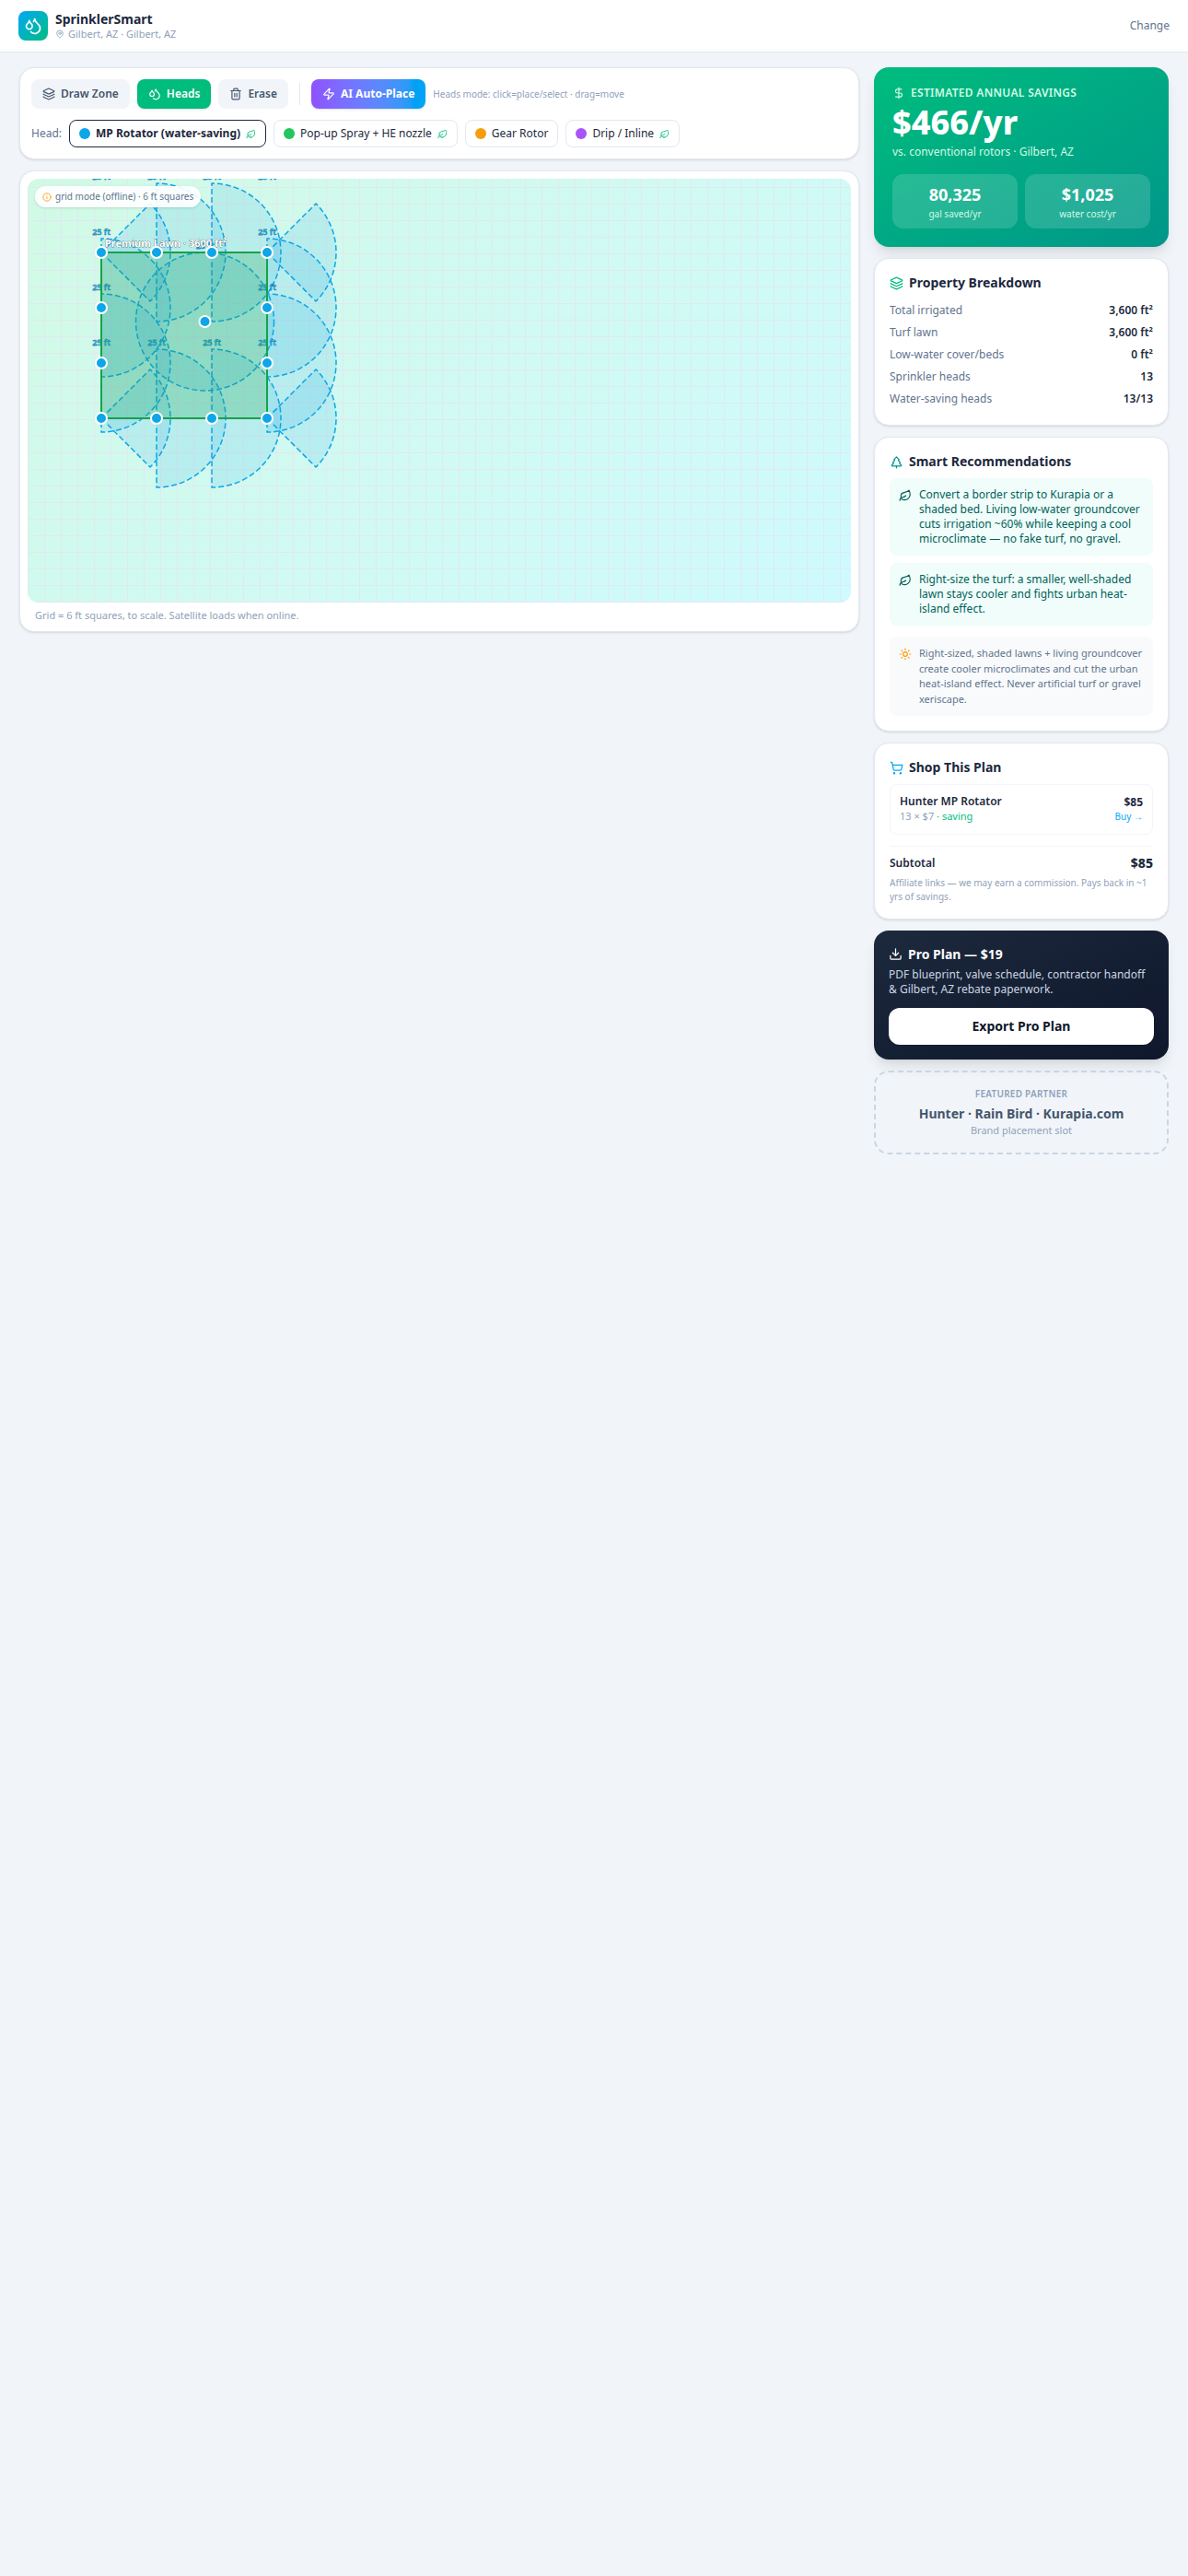
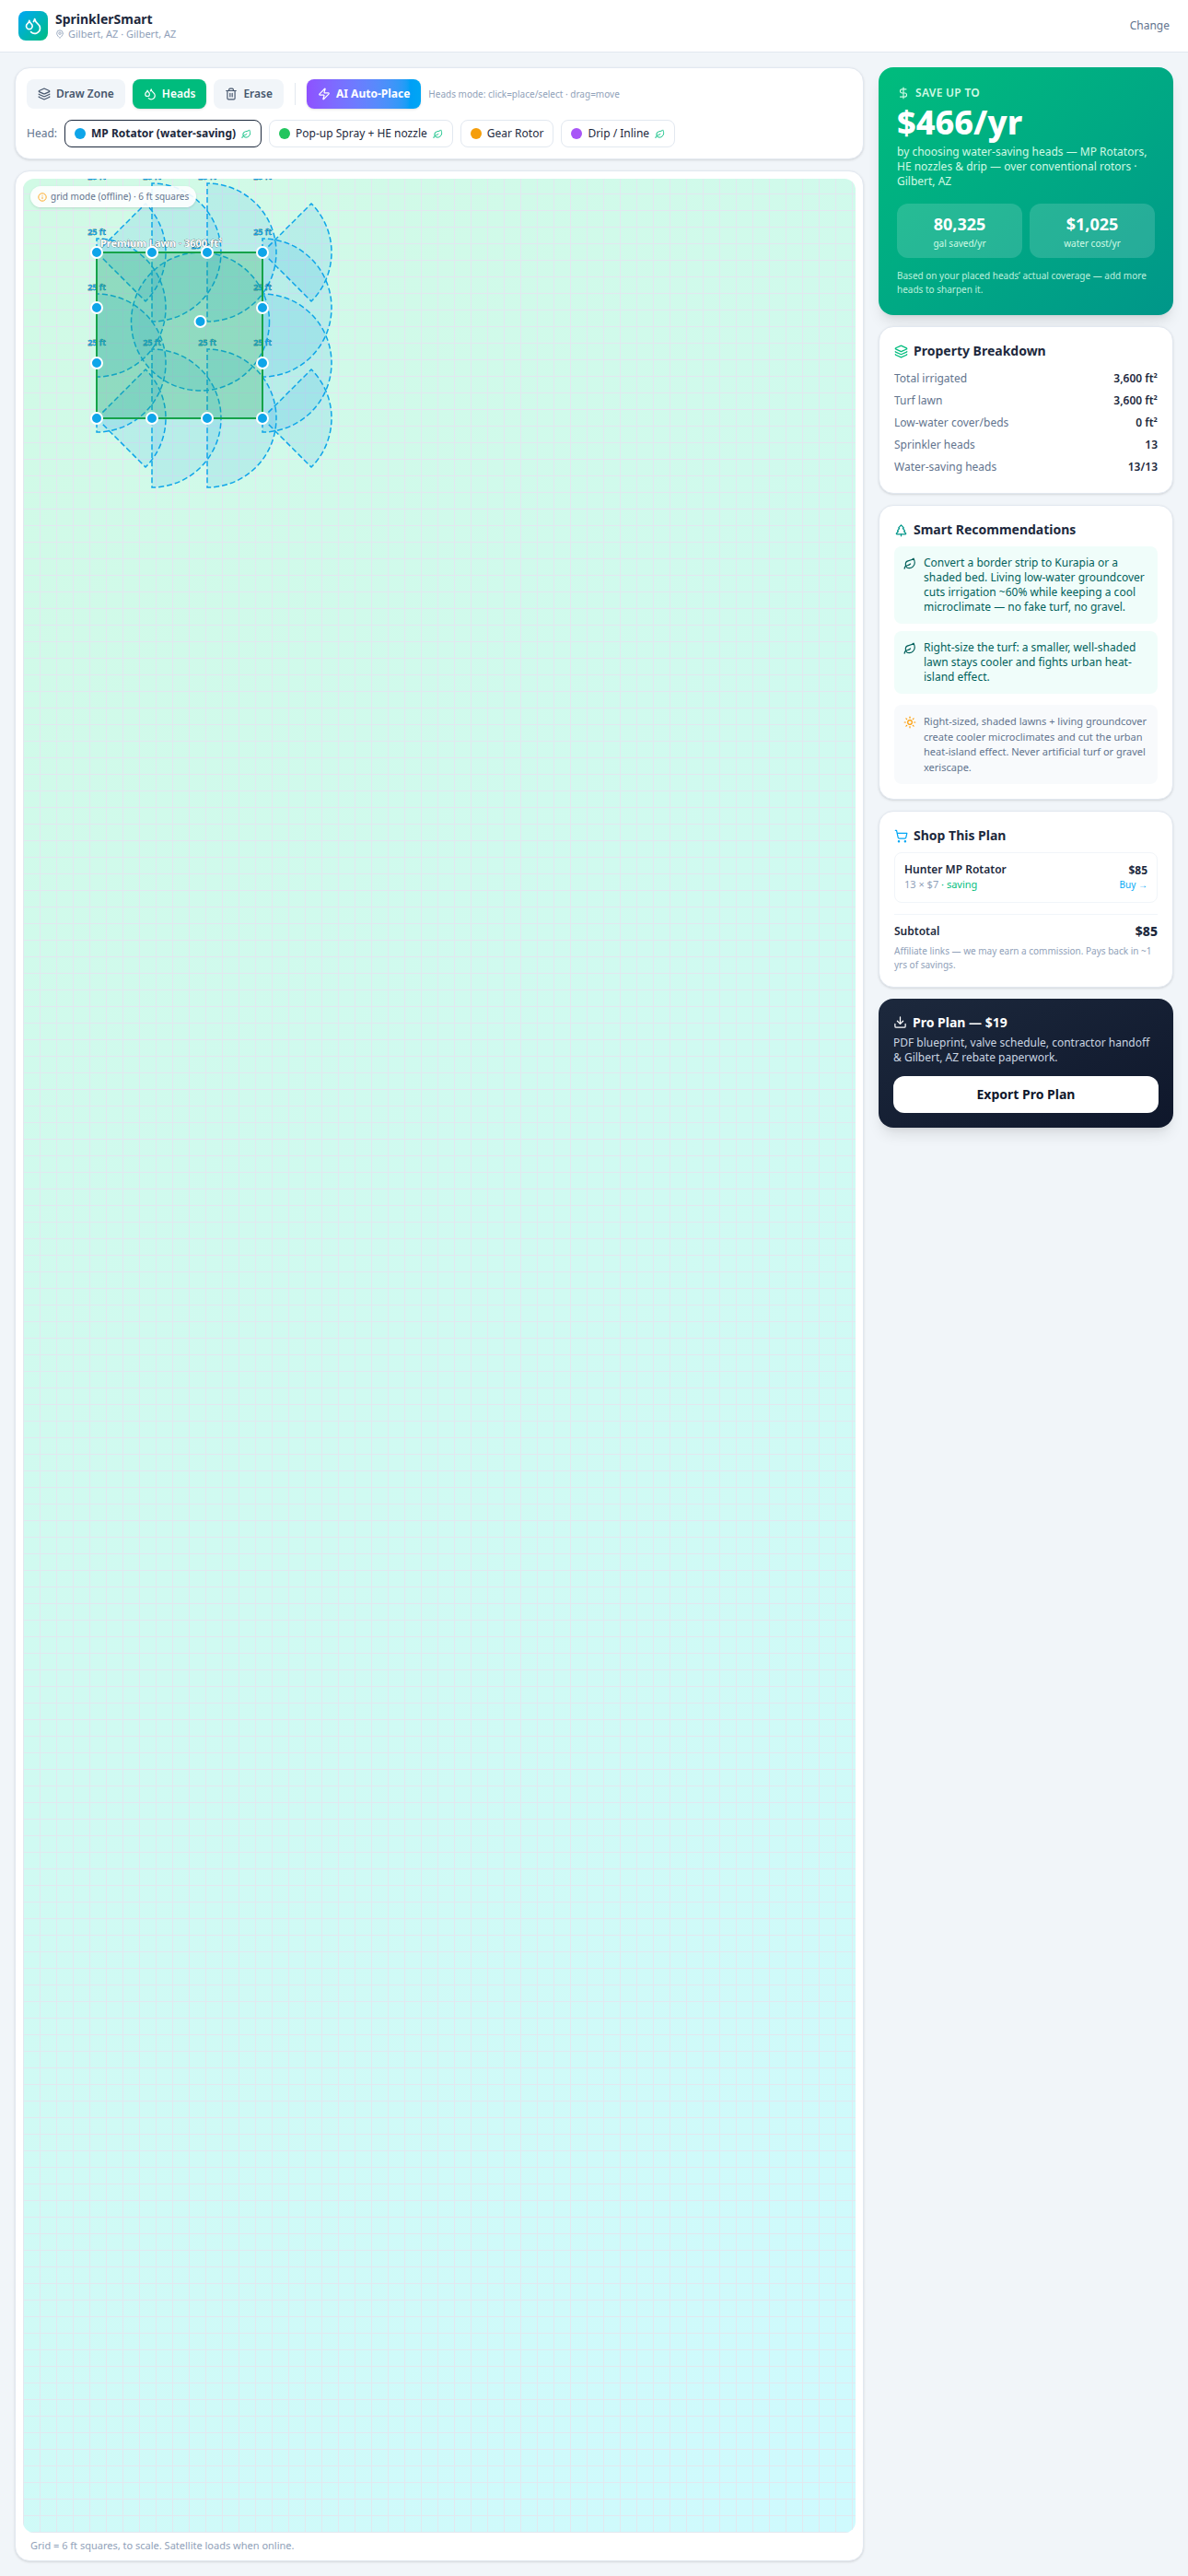
fix: right-size auto-placed heads, tie savings to head coverage, fill map on desktop
Three real bugs Jeff found on a live TestFlight iPad build against his own
~2,170 ft² Gilbert lawn:

1. AI Auto-Place dropped 25 ft-radius MP Rotators regardless of zone size, so
   on a small lawn the throw blanketed the street/neighbor's yard instead of
   the grass. `pickHeadForZone()` now picks the largest recommended head
   whose radius still fits ~half the zone's smaller dimension, falling back
   to the smallest recommended head otherwise — a 45 ft lawn now gets
   15 ft pop-up sprays instead of 25 ft rotors; a 60 ft+ lawn still gets
   MP Rotators (real irrigation head-selection practice, not a downgrade).

2. The "Save Up To $/yr" headline was computed from lawn area alone —
   placing or removing sprinkler heads never moved the number, which is
   exactly the "price didn't change" behavior Jeff saw. `savings()` now
   takes `heads` and scales by `coverageFraction()` (grid-sampled actual
   head-reach per zone, same zone-assignment rule the PDF's valve schedule
   already uses). An empty plan or a drawn-but-unplaced zone now correctly
   reads $0; the number climbs as heads are placed and reaches the full
   area-based estimate once AI Auto-Place fully covers the lawn. Updated
   the card copy and the PDF methodology paragraph to match (the old PDF
   text explicitly said the estimate "tracks your zone layout, not your
   exact head selection" — no longer true, and shouldn't have been the
[…]

diff --git a/src/lib/__tests__/savings.test.ts b/src/lib/__tests__/savings.test.ts
@@ -1,5 +1,6 @@
 import { describe, it, expect } from 'vitest';
-import { areaSplit, gallons, savings } from '../savings';
+import { areaSplit, coverageFraction, gallons, savings } from '../savings';
+import { autoPlace } from '../geometry';
 import { MUNI, PX_PER_FT } from '../data';
 import type { Pt, Zone } from '../types';
 
@@ -37,23 +38,57 @@ describe('gallons', () => {
   });
 });
 
+describe('coverageFraction', () => {
+  it('is 0 for a zone with no heads', () => {
+    expect(coverageFraction({ type: 'premium_lawn', pts: sq(0, 0, 40) }, [])).toBe(0);
+  });
+  it('is ~1 for a zone fully auto-placed', () => {
+    const z: Zone = { type: 'premium_lawn', pts: sq(0, 0, 40) };
+    expect(coverageFraction(z, autoPlace([z]))).toBeGreaterThan(0.9);
+  });
+  it('ignores heads placed in a different zone', () => {
+    const z: Zone = { type: 'premium_lawn', pts: sq(0, 0, 40) };
+    const other: Zone = { type: 'premium_lawn', pts: sq(1000, 1000, 40) };
+    expect(coverageFraction(z, autoPlace([other]))).toBe(0);
+  });
+});
+
 describe('savings', () => {
-  it('is zero with no zones', () => expect(savings([], MUNI['Gilbert, AZ']).dollarsSaved).toBe(0));
-  it('grows with lawn size', () => {
-    const a = savings([{ type: 'premium_lawn', pts: sq(0, 0, 30) }], MUNI['Gilbert, AZ']);
-    const b = savings([{ type: 'premium_lawn', pts: sq(0, 0, 60) }], MUNI['Gilbert, AZ']);
+  it('is zero with no zones', () => expect(savings([], [], MUNI['Gilbert, AZ']).dollarsSaved).toBe(0));
+  it('is zero for a drawn zone with no heads placed yet', () => {
+    const z: Zone[] = [{ type: 'premium_lawn', pts: sq(0, 0, 40) }];
+    expect(savings(z, [], MUNI['Gilbert, AZ']).dollarsSaved).toBe(0);
+  });
+  it('grows as heads are placed to cover more of the lawn', () => {
+    const z: Zone[] = [{ type: 'premium_lawn', pts: sq(0, 0, 40) }];
+    const allHeads = autoPlace(z);
+    const none = savings(z, [], MUNI['Gilbert, AZ']).dollarsSaved;
+    const some = savings(z, allHeads.slice(0, 1), MUNI['Gilbert, AZ']).dollarsSaved;
+    const full = savings(z, allHeads, MUNI['Gilbert, AZ']).dollarsSaved;
+    expect(some).toBeGreaterThanOrEqual(none);
+    expect(full).toBeGreaterThan(some);
+  });
+  it('grows with lawn size at equal (full) coverage', () => {
+    const za: Zone[] = [{ type: 'premium_lawn', pts: sq(0, 0, 30) }];
+    const zb: Zone[] = [{ type: 'premium_lawn', pts: sq(0, 0, 60) }];
+    const a = savings(za, autoPlace(za), MUNI['Gilbert, AZ']);
+    const b = savings(zb, autoPlace(zb), MUNI['Gilbert, AZ']);
     expect(b.dollarsSaved).toBeGreaterThan(a.dollarsSaved);
   });
   it('grows with the water rate', () => {
     const z: Zone[] = [{ type: 'premium_lawn', pts: sq(0, 0, 40) }];
-    expect(savings(z, MUNI['Gilbert, AZ']).dollarsSaved).toBeGreaterThan(savings(z, MUNI['Mesa, AZ']).dollarsSaved);
+    const hs = autoPlace(z);
+    expect(savings(z, hs, MUNI['Gilbert, AZ']).dollarsSaved).toBeGreaterThan(savings(z, hs, MUNI['Mesa, AZ']).dollarsSaved);
   });
   it('never reports negative savings', () => {
-    expect(savings([{ type: 'premium_lawn', pts: sq(0, 0, 10) }], MUNI['Phoenix, AZ']).saved).toBeGreaterThanOrEqual(0);
+    const z: Zone[] = [{ type: 'premium_lawn', pts: sq(0, 0, 10) }];
+    expect(savings(z, autoPlace(z), MUNI['Phoenix, AZ']).saved).toBeGreaterThanOrEqual(0);
   });
-  it('honors the live map scale (same ft² → same savings at 2× px/ft)', () => {
-    const base = savings([{ type: 'premium_lawn', pts: sq(0, 0, 50) }], MUNI['Gilbert, AZ'], PX_PER_FT);
-    const zoomed: Zone[] = [{ type: 'premium_lawn', pts: sq(0, 0, 50).map((p) => ({ x: p.x * 2, y: p.y * 2 })) }];
-    expect(savings(zoomed, MUNI['Gilbert, AZ'], PX_PER_FT * 2).dollarsSaved).toBeCloseTo(base.dollarsSaved, 2);
+  it('honors the live map scale (same ft² + same coverage → same savings at 2× px/ft)', () => {
+    const zone: Zone = { type: 'premium_lawn', pts: sq(0, 0, 50) };
+    const base = savings([zone], autoPlace([zone]), MUNI['Gilbert, AZ'], PX_PER_FT);
+    const zoomedZone: Zone = { type: 'premium_lawn', pts: sq(0, 0, 50).map((p) => ({ x: p.x * 2, y: p.y * 2 })) };
+    const zoomed = savings([zoomedZone], autoPlace([zoomedZone], PX_PER_FT * 2), MUNI['Gilbert, AZ'], PX_PER_FT * 2);
+    expect(zoomed.dollarsSaved).toBeCloseTo(base.dollarsSaved, 0);
   });
 });

diff --git a/src/lib/savings.ts b/src/lib/savings.ts
@@ -1,7 +1,7 @@
 /** Water-usage and dollar-savings model (ET-based). */
-import { PX_PER_FT } from './data';
-import { polyAreaFt } from './geometry';
-import type { RateProfile, Zone } from './types';
+import { HEADS, PX_PER_FT } from './data';
+import { pipPx, pipPxInclusive, polyAreaFt } from './geometry';
+import type { Head, RateProfile, Zone } from './types';
 
 /** Split zone area (ft²) into turf vs. low-water cover at the given map scale. */
 export function areaSplit(zones: Zone[], scale: number = PX_PER_FT) {
@@ -15,6 +15,41 @@ export function areaSplit(zones: Zone[], scale: number = PX_PER_FT) {
 }
 
 /**
+ * Fraction (0–1) of a zone's area actually reached by placed heads assigned to it
+ * (first-zone-match, boundary-tolerant — same assignment rule buildValveSchedule's
+ * PDF output uses). Sampled on a 2ft grid using each head's real coverage radius.
+ * No heads in the zone → 0, so an empty plan reads $0 instead of a zone-size guess.
+ */
+export function coverageFraction(zone: Zone, heads: Head[], scale: number = PX_PER_FT): number {
+  const zoneHeads = heads.filter((h) => pipPxInclusive({ x: h.x, y: h.y }, zone.pts));
+  if (!zoneHeads.length) return 0;
+  const xs = zone.pts.map((p) => p.x), ys = zone.pts.map((p) => p.y);
+  const minX = Math.min(...xs), maxX = Math.max(...xs);
+  const minY = Math.min(...ys), maxY = Math.max(...ys);
+  const step = scale * 2;
+  let inside = 0, covered = 0;
+  for (let y = minY + step / 2; y < maxY; y += step) {
+    for (let x = minX + step / 2; x < maxX; x += step) {
+      if (!pipPx({ x, y }, zone.pts)) continue;
+      inside++;
+      if (zoneHeads.some((h) => Math.hypot(h.x - x, h.y - y) <= HEADS[h.type].radius * scale)) covered++;
+    }
+  }
+  return inside === 0 ? 0 : covered / inside;
+}
+
+/** Zone area actually reached by placed heads (ft²), split turf vs. low-water. */
+export function coveredAreaSplit(zones: Zone[], heads: Head[], scale: number = PX_PER_FT) {
+  let premium = 0, low = 0;
+  zones.forEach((z) => {
+    const covered = polyAreaFt(z.pts, scale) * coverageFraction(z, heads, scale);
+    if (z.type === 'premium_lawn' || z.type === 'standard_lawn') premium += covered;
+    else if (z.type === 'kurapia' || z.type === 'shade_bed') low += covered;
+  });
+  return { premium, low, total: premium + low };
+}
+
+/**
  * Annual gallons. Turf uses full ET; low-water cover ~40% of it. `eff` toggles
  * water-saving heads (higher application efficiency) vs. conventional rotors.
  */
@@ -24,9 +59,13 @@ export function gallons(premium: number, low: number, et: number, eff: boolean):
   return (premium * (et / 12) * 7.48) / turfEff + (low * (et / 12) * 0.4 * 7.48) / coverEff;
 }
 
-/** Annual savings in gallons and dollars vs. conventional rotors. */
-export function savings(zones: Zone[], m: Pick<RateProfile, 'et' | 'rate'>, scale: number = PX_PER_FT) {
-  const { premium, low } = areaSplit(zones, scale);
+/**
+ * Annual savings in gallons and dollars vs. conventional rotors, computed from the
+ * area actually reached by placed heads — an empty plan or an unplaced zone reads
+ * $0, and the figure grows as heads are placed/AI-auto-placed across the lawn.
+ */
+export function savings(zones: Zone[], heads: Head[], m: Pick<RateProfile, 'et' | 'rate'>, scale: number = PX_PER_FT) {
+  const { premium, low } = coveredAreaSplit(zones, heads, scale);
   const effGal = gallons(premium, low, m.et, true);
   const baseGal = gallons(premium, low, m.et, false);
   const saved = Math.max(0, baseGal - effGal);

diff --git a/src/App.tsx b/src/App.tsx
@@ -358,7 +358,7 @@ export default function SprinklerSmart() {
   }
 
   const { premium, low, total } = areaSplit(zones, pxPerFt);
-  const s = savings(zones, m, pxPerFt);
+  const s = savings(zones, heads, m, pxPerFt);
   const parts = heads.reduce<Record<string, number>>((a, h) => { a[h.type] = (a[h.type] || 0) + 1; return a; }, {});
   const partsTotal = Object.entries(parts).reduce((x, [k, n]) => x + HEADS[k as HeadKey].price * n, 0);
   const recs = buildRecs(zones, heads, pxPerFt);
@@ -452,8 +452,8 @@ export default function SprinklerSmart() {
           {checkoutToast === 'success' ? <><CheckCircle2 size={16} /> Payment complete — your blueprint is downloading!</> : <><XCircle size={16} /> Checkout cancelled.</>}
         </div>
       )}
-      <div className="min-h-screen bg-slate-100 text-slate-800">
-      <div className="bg-white border-b border-slate-200 px-5 py-3 flex items-center justify-between sticky top-0 z-[1000]">
+      <div className="min-h-screen bg-slate-100 text-slate-800 flex flex-col">
+      <div className="bg-white border-b border-slate-200 px-5 py-3 flex items-center justify-between sticky top-0 z-[1000] shrink-0">
         <div className="flex items-center gap-2">
           <div className="bg-gradient-to-br from-sky-500 to-emerald-500 p-1.5 rounded-lg"><Droplets className="text-white" size={20} /></div>
           <div><div className="font-bold text-sm leading-tight">SprinklerSmart</div><div className="text-[11px] text-slate-400 leading-tight flex items-center gap-1"><MapPin size={10} />{address || m.name} · {m.name}</div></div>
@@ -461,9 +461,12 @@ export default function SprinklerSmart() {
         <button onClick={leavePlanner} className="text-xs text-slate-500 hover:text-slate-700">Change</button>
       </div>
 
-      <div className="flex flex-col lg:flex-row gap-4 p-4 max-w-[1600px] mx-auto">
-        <div className="flex-1">
-          <div className="bg-white rounded-2xl shadow-sm border border-slate-200 p-3 mb-3">
+      {/* lg:flex-1 + lg:min-h-0 lets this row grow to fill the viewport below the header on
+          tablet/desktop, so the map card (below) can flex-fill the column instead of leaving
+          a stranded white gap beneath a fixed-height map — see the auto-placement bug session. */}
+      <div className="flex flex-col lg:flex-row gap-4 p-4 max-w-[1600px] mx-auto w-full lg:flex-1 lg:min-h-0">
+        <div className="flex-1 flex flex-col lg:min-h-0">
+          <div className="bg-white rounded-2xl shadow-sm border border-slate-200 p-3 mb-3 shrink-0">
             <div className="flex flex-wrap gap-2 items-center">
               {([{ k: 'zone', label: 'Draw Zone', icon: Layers }, { k: 'head', label: 'Heads', icon: Droplets }, { k: 'erase', label: 'Erase', icon: Trash2 }] as const).map(({ k, label, icon: Icon }) => (
                 <button key={k} onClick={() => { setTool(k); setDraft([]); setSelected(null); }} className={`flex items-center gap-1.5 text-xs font-semibold px-3 py-2 rounded-lg ${tool === k ? 'bg-emerald-500 text-white shadow' : 'bg-slate-100 text-slate-600'}`}><Icon size={14} />{label}</button>
@@ -492,8 +495,8 @@ export default function SprinklerSmart() {
             )}
           </div>
 
-          <div className="bg-white rounded-2xl shadow-sm border border-slate-200 p-2">
-            <div className="relative w-full rounded-xl overflow-hidden" style={{ height: 'clamp(420px, 65dvh, 880px)' }}>
+          <div className="bg-white rounded-2xl shadow-sm border border-slate-200 p-2 flex flex-col lg:flex-1 lg:min-h-0">
+            <div className="relative w-full rounded-xl overflow-hidden h-[65dvh] min-h-[420px] max-h-[880px] lg:h-auto lg:flex-1 lg:max-h-none">
               <div ref={mapDiv} className="absolute inset-0" style={{ background: leaflet === 'ready' ? '#cbd5e1' : 'repeating-linear-gradient(0deg,#e2e8f0 0 1px,transparent 1px 18px),repeating-linear-gradient(90deg,#e2e8f0 0 1px,transparent 1px 18px),linear-gradient(135deg,#d1fae5,#cffafe)', cursor: tool === 'zone' || tool === 'head' ? 'crosshair' : tool === 'erase' ? 'pointer' : 'grab' }} />
               <div className="absolute top-2 left-2 z-[500] text-[10px] px-2 py-1 rounded-full bg-white/90 shadow text-slate-500 flex items-center gap-1">
                 {leaflet === 'loading' && <><Loader2 size={10} className="animate-spin" /> loading satellite…</>}
@@ -602,7 +605,7 @@ export default function SprinklerSmart() {
               <div className="bg-white/15 rounded-xl py-2"><div className="text-lg font-bold">{Math.round(s.saved).toLocaleString()}</div><div className="text-[10px] text-emerald-100">gal saved/yr</div></div>
               <div className="bg-white/15 rounded-xl py-2"><div className="text-lg font-bold">{dollar(s.effCost)}</div><div className="text-[10px] text-emerald-100">water cost/yr</div></div>
             </div>
-            <div className="text-emerald-100 text-[10px] mt-3 opacity-90">Rough estimate from your zone sizes — placing your actual heads below sharpens it.</div>
+            <div className="text-emerald-100 text-[10px] mt-3 opacity-90">{heads.length === 0 ? 'Place or AI auto-place your heads below to see your savings.' : 'Based on your placed heads’ actual coverage — add more heads to sharpen it.'}</div>
           </div>
           <div className="bg-white rounded-2xl shadow-sm border border-slate-200 p-4">
             <div className="font-bold text-sm mb-2 flex items-center gap-1.5"><Layers size={15} className="text-emerald-500" />Property Breakdown</div>

diff --git a/src/lib/geometry.ts b/src/lib/geometry.ts
@@ -81,14 +81,28 @@ function nextHeadId(): number {
 }
 
 /**
+ * Choose the recommended head whose throw suits the zone: the largest-radius
+ * recommended head that still fits ~2+ heads across the zone's smaller dimension,
+ * else the smallest recommended head. Prevents dropping a 25 ft rotor on a small
+ * lawn, where the throw would blanket the street/beds instead of the grass.
+ */
+export function pickHeadForZone(z: Zone, scale: number = PX_PER_FT): HeadKey {
+  const rec = ZONE_TYPES[z.type as ZoneTypeKey].rec as HeadKey[];
+  const xs = z.pts.map((p) => p.x), ys = z.pts.map((p) => p.y);
+  const minDimFt = Math.min(Math.max(...xs) - Math.min(...xs), Math.max(...ys) - Math.min(...ys)) / scale;
+  const fits = rec.filter((k) => HEADS[k].radius <= minDimFt / 2);
+  if (fits.length) return fits.reduce((a, k) => (HEADS[k].radius > HEADS[a].radius ? k : a));
+  return rec.reduce((a, k) => (HEADS[k].radius < HEADS[a].radius ? k : a));
+}
+
+/**
  * Place heads for each zone: perimeter-first (corners → edges) then a triangular
- * interior fill at ~100% head-to-head spacing. Recommended head type per zone.
+ * interior fill at ~100% head-to-head spacing. Head type is right-sized per zone.
  */
 export function autoPlace(zones: Zone[], scale: number = PX_PER_FT): Head[] {
   const out: Head[] = [];
   zones.forEach((z) => {
-    const zt = ZONE_TYPES[z.type as ZoneTypeKey];
-    const key = zt.rec[0] as HeadKey;
+    const key = pickHeadForZone(z, scale);
     const h = HEADS[key];
     const rPx = h.radius * scale;
     const thresh = rPx * 0.45;

diff --git a/src/lib/selftest.ts b/src/lib/selftest.ts
@@ -39,16 +39,18 @@ export function runSelfTests(): TestResult[] {
   T('resolveMuni unknown state → null', () => ex(resolveMuni('X', 'ZZ') === null));
   T('parseGeo town+code', () => { const r = parseGeo({ town: 'Gilbert', 'ISO3166-2-lvl4': 'US-AZ' }); ex(r.city === 'Gilbert' && r.st === 'AZ'); });
   T('parseGeo state name → abbr', () => ex(parseGeo({ state: 'Arizona' }).st === 'AZ'));
-  T('savings: bigger lawn saves more', () => {
-    const a = savings([{ type: 'premium_lawn', pts: sq(0, 0, 30) }], MUNI['Gilbert, AZ']);
-    const b = savings([{ type: 'premium_lawn', pts: sq(0, 0, 60) }], MUNI['Gilbert, AZ']);
-    ex(b.dollarsSaved > a.dollarsSaved);
+  T('savings: bigger fully-covered lawn saves more', () => {
+    const za: Zone[] = [{ type: 'premium_lawn', pts: sq(0, 0, 30) }];
+    const zb: Zone[] = [{ type: 'premium_lawn', pts: sq(0, 0, 60) }];
+    ex(savings(zb, autoPlace(zb), MUNI['Gilbert, AZ']).dollarsSaved > savings(za, autoPlace(za), MUNI['Gilbert, AZ']).dollarsSaved);
   });
   T('savings: higher rate saves more', () => {
     const z: Zone[] = [{ type: 'premium_lawn', pts: sq(0, 0, 40) }];
-    ex(savings(z, MUNI['Gilbert, AZ']).dollarsSaved > savings(z, MUNI['Mesa, AZ']).dollarsSaved);
+    const hs = autoPlace(z);
+    ex(savings(z, hs, MUNI['Gilbert, AZ']).dollarsSaved > savings(z, hs, MUNI['Mesa, AZ']).dollarsSaved);
   });
-  T('savings: empty = 0', () => ex(savings([], MUNI['Gilbert, AZ']).dollarsSaved === 0));
+  T('savings: empty plan = 0', () => ex(savings([], [], MUNI['Gilbert, AZ']).dollarsSaved === 0));
+  T('savings: zone with no heads placed = 0', () => ex(savings([{ type: 'premium_lawn', pts: sq(0, 0, 40) }], [], MUNI['Gilbert, AZ']).dollarsSaved === 0));
   T('recs: rotor on premium warns', () => ex(buildRecs(
     [{ type: 'premium_lawn', pts: sq(0, 0, 30) }],
     [{ id: 1, x: 0, y: 0, type: 'rotor', radius: 35, zoneType: 'premium_lawn', arc: 360, dir: 0 }],
@@ -60,7 +62,7 @@ export function runSelfTests(): TestResult[] {
     ex(hs.length > 0, 'heads placed');
     ex(hs.every((h) => coversZone(h, zones[0].pts)), 'all inside/on-edge');
     ex(hs.every((h) => h.type === 'mp_rotator'), 'MP rotator');
-    ex(savings(zones, MUNI['Gilbert, AZ']).dollarsSaved > 0, 'savings>0');
+    ex(savings(zones, hs, MUNI['Gilbert, AZ']).dollarsSaved > 0, 'savings>0');
   });
   T('BDD: kurapia → drip only', () => { const hs = autoPlace([{ type: 'kurapia', pts: sq(0, 0, 40) }]); ex(hs.length > 0 && hs.every((h) => h.type === 'drip')); });
   T('BDD: erase head shrinks plan', () => { let hs = autoPlace([{ type: 'premium_lawn', pts: sq(0, 0, 50) }]); const n = hs.length; hs = hs.filter((h) => h.id !== hs[0].id); ex(hs.length === n - 1); });

diff --git a/e2e/ui.spec.ts b/e2e/ui.spec.ts
@@ -125,17 +125,26 @@ test.describe('Feature: Zone classification', () => {
 });
 
 test.describe('Feature: Real-time savings', () => {
-  test('adding a second zone increases annual savings', async ({ page }) => {
+  test('adding a second zone and auto-placing heads increases annual savings', async ({ page }) => {
     await enterPlanner(page);
     await drawSquareZone(page);
+    await page.getByRole('button', { name: /AI Auto-Place/i }).click();
     const read = async () => parseInt((await page.getByTestId('annual-savings').innerText()).replace(/[^0-9]/g, ''), 10);
     const first = await read();
-    // Draw another zone in a different area of the canvas.
+    // Draw another zone in a different area of the canvas, then auto-place its heads too —
+    // savings is driven by placed-head coverage, not zone size alone (see src/lib/savings.ts).
     await page.getByRole('button', { name: 'Draw Zone' }).click();
     await clickOverlay(page, 300, 300); await clickOverlay(page, 420, 300);
     await clickOverlay(page, 420, 420); await clickOverlay(page, 300, 420);
     await page.getByRole('button', { name: /Finish/i }).click();
+    await page.getByRole('button', { name: /AI Auto-Place/i }).click();
     expect(await read()).toBeGreaterThan(first);
+  });
+
+  test('savings reads $0 until heads are placed', async ({ page }) => {
+    await enterPlanner(page);
+    await drawSquareZone(page);
+    await expect(page.getByTestId('annual-savings')).toHaveText('$0/yr');
   });
 });
 

diff --git a/src/lib/__tests__/geometry.test.ts b/src/lib/__tests__/geometry.test.ts
@@ -116,6 +116,19 @@ describe('autoPlace', () => {
     expect(autoPlace([{ type: 'premium_lawn', pts: sq(0, 0, 50) }]).every((h) => h.type === 'mp_rotator')).toBe(true);
     expect(autoPlace([{ type: 'kurapia', pts: sq(0, 0, 40) }]).every((h) => h.type === 'drip')).toBe(true);
   });
+  // Regression: a small lawn (e.g. a real ~2,170 ft² / ~46 ft-wide yard) was getting the
+  // 25 ft-radius MP Rotator regardless of size, so the throw blanketed the street/beds
+  // instead of the grass. pickHeadForZone right-sizes to a head whose radius actually
+  // fits the zone's smaller dimension.
+  it('right-sizes the head to a small zone instead of always using the largest recommended radius', () => {
+    const heads = autoPlace([{ type: 'premium_lawn', pts: sq(0, 0, 45) }]);
+    expect(heads.length).toBeGreaterThan(0);
+    expect(heads.every((h) => h.type === 'popup_spray')).toBe(true);
+  });
+  it('still uses the larger-throw head once the zone is big enough to fit it', () => {
+    const heads = autoPlace([{ type: 'premium_lawn', pts: sq(0, 0, 60) }]);
+    expect(heads.every((h) => h.type === 'mp_rotator')).toBe(true);
+  });
   it('assigns unique head ids', () => {
     const heads = autoPlace([{ type: 'premium_lawn', pts: sq(0, 0, 50) }]);
     expect(new Set(heads.map((h) => h.id)).size).toBe(heads.length);

diff --git a/src/lib/pdf.ts b/src/lib/pdf.ts
@@ -373,7 +373,7 @@ export async function generatePdf(data: PdfPlanData): Promise<void> {
   // (showing the numbers above aren't a black box).
   doc.setFontSize(7.5);
   doc.setFont('helvetica', 'normal');
-  const methodologyText = `Water cost is based on ${data.muni.name}'s published tiered water rate ($${data.muni.rate.toFixed(2)} / 1,000 gal) and reference evapotranspiration (ET) demand for your climate zone, weighted per zone type (turf vs. low-water groundcover vs. shade). The "Save Up To" figure compares a fully water-saving layout — MP Rotators, HE nozzle sprays, and drip — against conventional rotors for your mapped zone sizes; it tracks your zone layout, not your exact head selection, so placing your real heads and re-running the planner sharpens the estimate. Application rates and coverage radii use each sprinkler head manufacturer's published specifications. Actual usage varies with weather, soil, and irrigation controller settings — this blueprint is a planning estimate, not a guarantee.`;
+  const methodologyText = `Water cost is based on ${data.muni.name}'s published tiered water rate ($${data.muni.rate.toFixed(2)} / 1,000 gal) and reference evapotranspiration (ET) demand for your climate zone, weighted per zone type (turf vs. low-water groundcover vs. shade). The "Save Up To" figure compares a fully water-saving layout — MP Rotators, HE nozzle sprays, and drip — against conventional rotors, scaled to the lawn area your placed heads actually reach; placing more heads or re-running AI Auto-Place sharpens the estimate. Application rates and coverage radii use each sprinkler head manufacturer's published specifications. Actual usage varies with weather, soil, and irrigation controller settings — this blueprint is a planning estimate, not a guarantee.`;
   const methodologyLines = doc.splitTextToSize(methodologyText, CW);
   // Heading (5mm) + wrapped body (4mm/line) must fit above the footer (drawn at y=275 on
   // a 'letter' page) — compute against the actual wrapped line count, not a fixed y